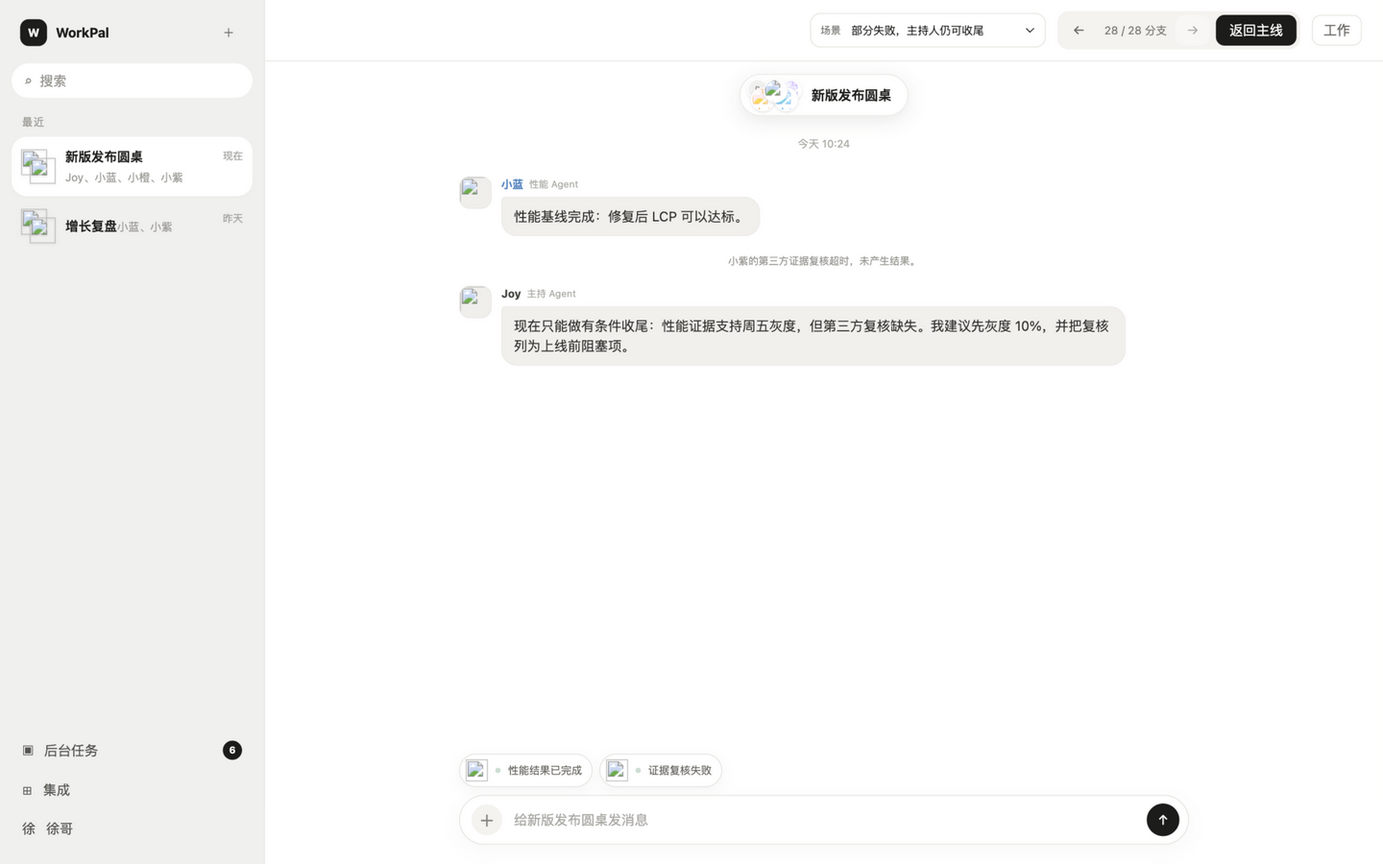
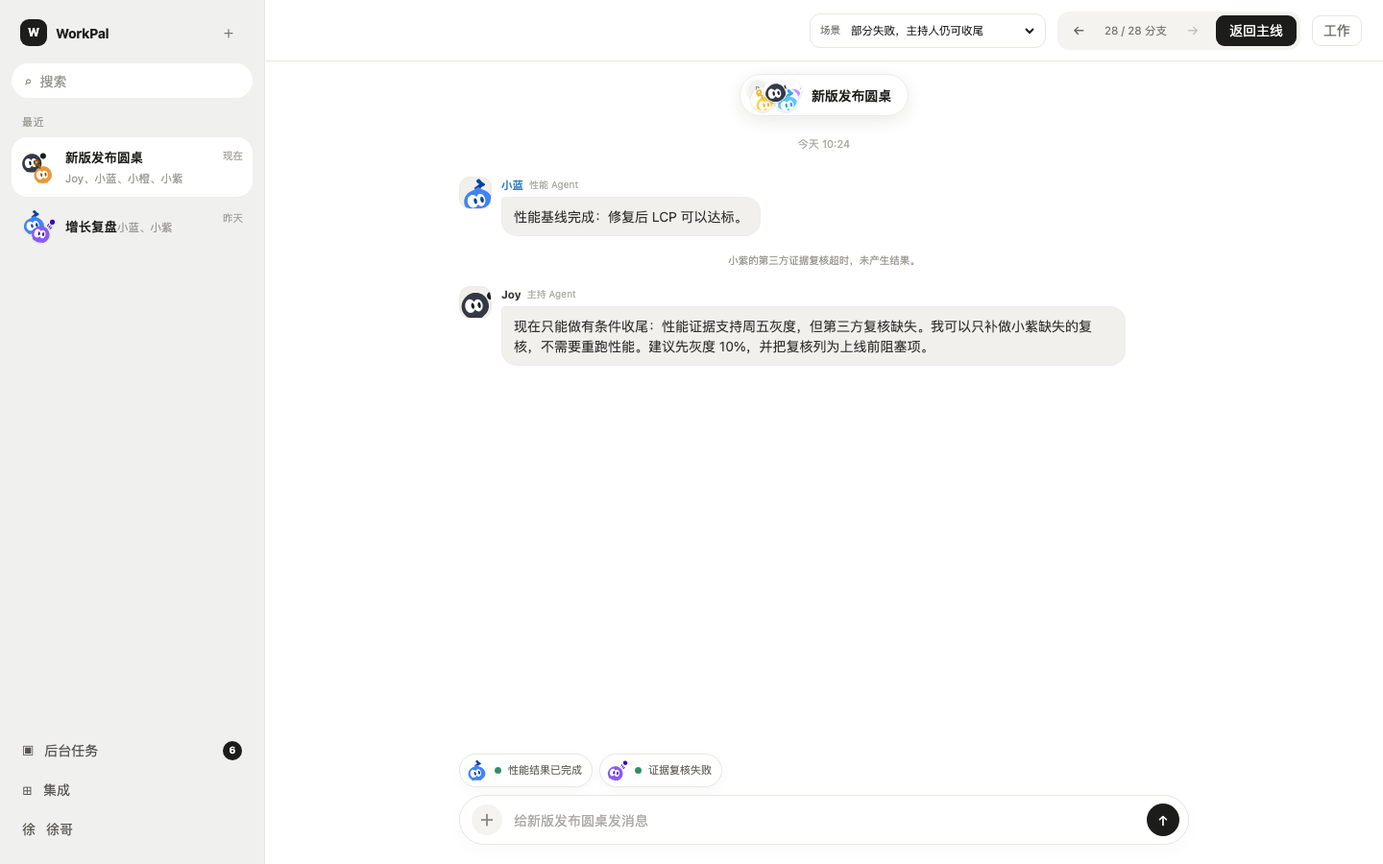
docs(prototype): align failure and recovery copy
Replace executor names and internal execution states in the roundtable
prototype failure scenarios with user-actionable copy.

- F-OFFLINE now demonstrates a connection failure (CF-08) instead of
  leaking an executor name or "Agent disabled"; it states that the work
  did not start and offers reassignment or waiting.
- F-RETRY explains the cause in user terms, keeps one work item, shows
  only objective attempt counts, and sets expectations when retries run out.
- F-PARTIAL uses a conditional wrap-up, names the missing evidence, and
  offers to redo only the failed part.
- X-GROUP-FAIL covers the no-permission path by pointing to the group
  owner or admin; work metadata uses "等你决定" instead of "成员审批".
- main-stage-7 is reviewed with no copy change; its approval card is
  already user-facing.
- DESIGN.md defines failure, connection-failure, retry, partial-completion
  and recovery copy boundaries.
- Add a prototype copy validator that scans for the banned terms and
  required user-facing anchors, plus 1440px/430px/work-panel evidence.

Production behavior and error copy are unchanged pending user confirmation.

diff --git a/docs/roundtable/prototype/index.html b/docs/roundtable/prototype/index.html
@@ -654,7 +654,7 @@
 
     const branchScenarios = [
       {
-        id: "U-ACTIVE", category: "用户介入", title: "单独 @ 正在工作的 Agent", note: "显式 @ 命中小蓝的 active Run，写入 SteeringMessage；后台基线不取消。",
+        id: "U-ACTIVE", category: "用户介入", title: "单独 @ 正在工作的 Agent", note: "显式 @ 命中小蓝正在进行的工作，新要求优先进入当前执行；后台基线不取消。",
         messages: [
           { type: "user", html: "<span class='mention blue'>@小蓝</span> 先补测低端机，桌面端可以晚一点。" },
           { who: "blue", name: "小蓝", role: "性能 Agent", html: "收到，新优先级已经进入我当前的执行。我先补低端机；完整基线仍在后台继续。<div class='work-inline'><span class='pulse'></span>正在回复 · 后台任务未暂停</div>" }
@@ -663,7 +663,7 @@
         work: { summary: "2 项同时进行", roots: [{ title: "性能调查", desc: "用户直接指派小蓝", status: "进行中", items: [{ who: "blue", name: "小蓝", task: "补测低端机并立即答复", state: "回复中", className: "run", progress: 56, meta: "你的补充" }, { who: "blue", name: "小蓝", task: "完整性能基线", state: "后台中", className: "run", progress: 63, meta: "后台执行" }] }] }
       },
       {
-        id: "U-MULTI", category: "用户介入", title: "一句话分别 @ 多个 Agent", note: "按 mention 后的命令分段，形成两个独立目标 Run，不要求用户额外说“分别”。",
+        id: "U-MULTI", category: "用户介入", title: "一句话分别 @ 多个 Agent", note: "按 mention 后的命令分段，形成两个独立任务，不要求用户额外说“分别”。",
         messages: [
           { type: "user", html: "<span class='mention blue'>@小蓝</span> 做性能回归，<span class='mention orange'>@小橙</span> 做移动端视觉验收。" },
           { who: "blue", name: "小蓝", role: "性能 Agent", html: "收到，我负责性能回归。" },
@@ -692,7 +692,7 @@
         work: { summary: "1 进行中 · 1 已停", roots: [{ title: "首屏方案", desc: "用户精确取消一个节点", status: "进行中", items: [{ who: "orange", name: "小橙", task: "A/B 主方案", state: "后台中", className: "run", progress: 61, meta: "继续" }, { who: "orange", name: "小橙", task: "移动端 B 版断点", state: "已停止", className: "muted", progress: 35, meta: "用户取消" }] }] }
       },
       {
-        id: "A-ACTIVE", category: "任务补充", title: "几轮后继续补充 Task1", note: "补充靠结构化 taskId 命中 Task1 的 active Run，不按当前说话人或最近一条消息猜。",
+        id: "A-ACTIVE", category: "任务补充", title: "几轮后继续补充 Task1", note: "补充靠结构化 taskId 命中 Task1 正在进行的工作，不按当前说话人或最近一条消息猜。",
         messages: [
           { type: "user", html: "<span class='mention blue'>@小蓝</span> 做 Task1：对比最近三次发布的 LCP，找出主要回退来源。" },
           { who: "blue", name: "小蓝", role: "性能 Agent", html: "收到。我会把三次构建、真实用户数据和资源瀑布拆开比较。<div class='work-inline'><span class='pulse'></span>Task1 · 三次发布 LCP 对比</div>" },
@@ -705,7 +705,7 @@
         work: { summary: "Task1 · 补充 1 条", roots: [{ title: "Task1 · 三次发布 LCP 对比", desc: "原要求保留 · 已补充 1 条", status: "进行中", items: [{ who: "blue", name: "小蓝", task: "构建对比 + 地区分层 + 样本量标记", state: "进行中", className: "run", progress: 54, meta: "正在按最新要求执行" }] }] }
       },
       {
-        id: "A-BACKGROUND", category: "任务补充", title: "后台执行时追加分析口径", note: "现有 BackgroundAgentTask 不能被直接 steering；补充先持久化，由负责人判断继续合并还是取消旧 attempt。",
+        id: "A-BACKGROUND", category: "任务补充", title: "后台执行时追加分析口径", note: "现有后台工作不能被直接插入新要求；补充先保存，由负责人判断继续合并还是停止旧的一次执行。",
         messages: [
           { type: "user", html: "<span class='mention blue'>@小蓝</span> 把三次发布的性能原始数据跑一遍。" },
           { who: "blue", name: "小蓝", role: "性能 Agent", html: "Task1 已经放到后台跑，取数完成后我回来给你结论。<div class='work-inline'><span class='pulse'></span>后台中 · 性能原始数据</div>" },
@@ -717,7 +717,7 @@
         work: { summary: "后台继续 · 已补充要求", roots: [{ title: "Task1 · 性能原始数据", desc: "第 1 次执行 · 已补充 1 条", status: "后台中", items: [{ who: "blue", name: "小蓝", task: "取数继续；交付时拆分主图与图表包", state: "后台中", className: "run", progress: 67, meta: "现有取数继续" }] }] }
       },
       {
-        id: "A-COMPLETED", category: "任务补充", title: "已完成后追加复核", note: "旧结果保持完成；补充在同一个 Task 下创建 follow-up Run，不改写历史，也不创建用户新会话。",
+        id: "A-COMPLETED", category: "任务补充", title: "已完成后追加复核", note: "旧结果保持完成；补充在同一个 Task 下创建后续工作，不改写历史，也不创建用户新会话。",
         messages: [
           { who: "blue", name: "小蓝", role: "性能 Agent", html: "Task1 做完了：这次回退主要来自主图和同步图表包。<div class='result-card'><strong>Task1 · 已完成</strong><ul><li>主图约 +0.6s</li><li>图表包约 +0.4s</li></ul></div>" },
           { who: "orange", name: "小橙", role: "设计 Agent", html: "我按这个结论准备了主图压缩版，视觉差异可以接受。" },
@@ -757,13 +757,13 @@
         work: { summary: "1 项已委派", roots: [{ title: "Joy 的用户任务", desc: "来源：Joy 单聊", status: "进行中", items: [{ who: "blue", name: "小蓝", task: "对比最近三次发布的 LCP", state: "已接收", className: "run", progress: 18, meta: "Joy ↔ 小蓝 · 固定对话" }] }] }
       },
       {
-        id: "X-GROUP-FAIL", category: "跨会话调度", title: "A 不在群，申请加入", note: "Joy 发现自己尚未入席；只有你具备群成员管理权时，才会出现可执行的加入审批。", surface: "dm",
+        id: "X-GROUP-FAIL", category: "跨会话调度", title: "A 不在群，申请加入", note: "Joy 发现自己尚未入席；只有你具备群成员管理权时，才会出现可执行的加入审批；没有权限时明确说明需要管理员处理。", surface: "dm",
         messages: [
           { type: "user", html: "你去新版发布圆桌看看现在讨论到哪了，核对性能风险。" },
-          { who: "joy", name: "Joy", role: "主持 Agent", html: "我还没在“新版发布圆桌”里。你可以把我拉进去；加入后我会继续刚才的任务，不需要你再说一遍。<div class='approval'><div class='approval-title'>◌ 把 Joy 加入「新版发布圆桌」？</div><div class='destination-text'>加入后，Joy 可以读取群内讨论、在群里发言并推进这次性能风险核对。</div><div class='approval-actions'><button class='mini-btn' data-toast='没有加入群，也没有发送任何消息'>暂不加入</button><button class='mini-btn primary' data-branch='X-GROUP'>加入并继续</button></div></div>" }
+          { who: "joy", name: "Joy", role: "主持 Agent", html: "我还没在“新版发布圆桌”里。你可以把我拉进去；加入后我会继续刚才的任务，不需要你再说一遍。如果你没有成员管理权限，可以请群主或管理员处理。<div class='approval'><div class='approval-title'>◌ 把 Joy 加入「新版发布圆桌」？</div><div class='destination-text'>加入后，Joy 可以读取群内讨论、在群里发言并推进这次性能风险核对。</div><div class='approval-actions'><button class='mini-btn' data-toast='没有加入群，也没有发送任何消息'>暂不加入</button><button class='mini-btn primary' data-branch='X-GROUP'>加入并继续</button></div></div>" }
         ],
         activity: [{ who: "joy", label: "等你决定是否让 Joy 入席" }],
-        work: { summary: "1 项等你确认", roots: [{ title: "前往新版发布圆桌", desc: "尚未加入该群", status: "等你确认", items: [{ who: "joy", name: "Joy", task: "入群后核对性能风险", state: "等待入席", className: "wait", progress: 0, meta: "成员审批" }] }] }
+        work: { summary: "1 项等你确认", roots: [{ title: "前往新版发布圆桌", desc: "尚未加入该群", status: "等你确认", items: [{ who: "joy", name: "Joy", task: "入群后核对性能风险", state: "等待入席", className: "wait", progress: 0, meta: "等你决定" }] }] }
       },
       {
         id: "X-RETURN", category: "跨会话调度", title: "A 回来源单聊汇报结果", note: "圆桌保留完整过程；工作完成后，Joy 回到原单聊，专门按你的目标再汇报一次。", surface: "dm",
@@ -795,7 +795,7 @@
         work: { summary: "3 项分别进行", roots: [{ title: "Joy 的用户任务", desc: "已分别发给三位 Agent", status: "进行中", items: [{ who: "blue", name: "小蓝", task: "性能风险", state: "已接收", className: "run", progress: 19, meta: "Joy ↔ 小蓝" }, { who: "orange", name: "小橙", task: "移动端风险", state: "已接收", className: "run", progress: 14, meta: "Joy ↔ 小橙" }, { who: "purple", name: "小紫", task: "证据缺口", state: "已接收", className: "run", progress: 12, meta: "Joy ↔ 小紫" }] }] }
       },
       {
-        id: "Q-ORIGINS", category: "固定 Agent 对话", title: "多来源并发不串线", note: "Joy ↔ 小蓝可以同时承接多个来源任务；审批、结果和取消按 sourceThreadId/sourceRunId 精确返回。", surface: "dm",
+        id: "Q-ORIGINS", category: "固定 Agent 对话", title: "多来源并发不串线", note: "Joy ↔ 小蓝可以同时承接多个来源任务；审批、结果和取消按来源会话与来源任务精确返回。", surface: "dm",
         messages: [
           { type: "user", html: "让小蓝查这次发布的线上 trace，只读就行。" },
           { who: "joy", name: "Joy", role: "主持 Agent", html: "已经发给小蓝。他同时还在替“增长复盘”查另一组数据，但两项工作不会混在一起。" },
@@ -816,7 +816,7 @@
         work: { summary: "1 项未送达", roots: [{ title: "补查移动端数据", desc: "目标 Agent 已停用", status: "失败", items: [{ who: "blue", name: "小蓝", task: "补查移动端数据", state: "未开始", className: "error", progress: 0, meta: "旧记录保留 · 新消息未送达" }] }] }
       },
       {
-        id: "C-MULTI", category: "并发与时序", title: "多个 Agent 同时应答", note: "各 Run 独立执行；消息最终按 Thread seq 稳定落库，不使用前端到达顺序推断因果。",
+        id: "C-MULTI", category: "并发与时序", title: "多个 Agent 同时应答", note: "各任务独立执行；消息最终按会话顺序稳定落库，不使用前端到达顺序推断因果。",
         messages: [
           { type: "user", html: "<span class='mention blue'>@小蓝</span> <span class='mention orange'>@小橙</span> 各自给我一句最重要的风险。" },
           { who: "orange", name: "小橙", role: "设计 Agent", html: "视觉侧最大风险是移动端 B 版信息密度。" },
@@ -826,7 +826,7 @@
         work: { summary: "2 项已完成", roots: [{ title: "并行快速判断", desc: "按消息产生顺序展示", status: "已完成", items: [{ who: "orange", name: "小橙", task: "视觉风险一句话", state: "已完成", className: "done", progress: 100, meta: "先返回" }, { who: "blue", name: "小蓝", task: "性能风险一句话", state: "已完成", className: "done", progress: 100, meta: "随后返回" }] }] }
       },
       {
-        id: "C-DUAL", category: "并发与时序", title: "同一 Agent 前台发言 + 后台工作", note: "Bot 是持久身份；普通 Run 与 BackgroundAgentTask 是两条车道。",
+        id: "C-DUAL", category: "并发与时序", title: "同一 Agent 前台发言 + 后台工作", note: "Bot 是持久身份；普通回复与后台工作是两条车道。",
         messages: [
           { type: "user", html: "<span class='mention blue'>@小蓝</span> trace 没跑完也没关系，先告诉我当前假设。" },
           { who: "blue", name: "小蓝", role: "性能 Agent", html: "当前假设是主图和图表包；这是中间判断，不是最终结论。<div class='work-inline'><span class='pulse'></span>后台 trace 仍在运行 · 2 / 4</div>" }
@@ -835,7 +835,7 @@
         work: { summary: "同一 Agent · 2 项工作", roots: [{ title: "性能诊断", desc: "即时回复和后台工作同时进行", status: "进行中", items: [{ who: "blue", name: "小蓝", task: "回答当前假设", state: "回复中", className: "run", progress: 80, meta: "即时回复" }, { who: "blue", name: "小蓝", task: "完整 trace", state: "后台中", className: "run", progress: 51, meta: "后台执行" }] }] }
       },
       {
-        id: "C-ROOTS", category: "并发与时序", title: "同群存在两个独立根任务", note: "不靠“最近消息”猜归属；每个用户根 Run 有自己的 lineage。",
+        id: "C-ROOTS", category: "并发与时序", title: "同群存在两个独立根任务", note: "不靠“最近消息”猜归属；每个用户根任务有自己的来源。",
         messages: [
           { type: "user", html: "<span class='mention purple'>@小紫</span> 另外查一下明天客户会的材料，这件事和发布无关。" },
           { who: "purple", name: "小紫", role: "审阅 Agent", html: "收到。我把它作为独立工作处理，不挂到发布方案下面。" }
@@ -844,7 +844,7 @@
         work: { summary: "2 个独立任务", roots: [{ title: "发布方案拆解", desc: "由 Joy 负责", status: "进行中", items: [{ who: "blue", name: "小蓝", task: "性能基线", state: "后台中", className: "run", progress: 61, meta: "发布方案" }] }, { title: "客户会材料", desc: "由用户直接指派", status: "进行中", items: [{ who: "purple", name: "小紫", task: "整理明天客户会材料", state: "进行中", className: "run", progress: 18, meta: "客户会材料" }] }] }
       },
       {
-        id: "C-LATE", category: "并发与时序", title: "旧任务结果晚到，不覆盖新指令", note: "delivery Run 先读取最新 Thread；旧结果保留证据，但标记已被新目标取代。",
+        id: "C-LATE", category: "并发与时序", title: "旧任务结果晚到，不覆盖新指令", note: "晚到的结果先读取最新会话；旧结果保留证据，但标记已被新目标取代。",
         messages: [
           { type: "user", html: "发布目标已经改成下周一；周五的数据只留档，不再用于决策。" },
           { who: "blue", name: "小蓝", role: "性能 Agent", html: "周五基线刚刚完成。我看到目标已经改到下周一，所以只把它作为历史基线回传，不会据此覆盖新计划。" }
@@ -853,7 +853,7 @@
         work: { summary: "1 项历史结果", roots: [{ title: "发布目标：下周一", desc: "最新用户指令生效", status: "进行中", items: [{ who: "blue", name: "小蓝", task: "周五性能基线", state: "仅归档", className: "muted", progress: 100, meta: "stale result" }] }] }
       },
       {
-        id: "P-SCOPED", category: "审批与权限", title: "审批只暂停一个节点", note: "Intervention 绑定具体 Run / task；小蓝、小紫和小橙的对话能力不受影响。",
+        id: "P-SCOPED", category: "审批与权限", title: "审批只暂停一个节点", note: "审批绑定具体工作；小蓝、小紫和小橙的对话能力不受影响。",
         messages: [
           { who: "orange", name: "小橙", role: "设计 Agent", html: "预览已经生成，需要发布权限。<div class='approval'><div class='approval-title'>◌ 允许小橙发布这一次预览？</div><div class='approval-actions'><button class='mini-btn' data-branch='P-DENY'>拒绝</button><button class='mini-btn primary' data-branch='P-ALLOW'>允许一次</button></div></div>" },
           { who: "blue", name: "小蓝", role: "性能 Agent", html: "审批不影响我：性能基线已经跑到第三组。" }
@@ -890,25 +890,25 @@
         work: { summary: "1 项需重新批准", roots: [{ title: "预览发布", desc: "目标从 B 改为 A", status: "待更新", items: [{ who: "orange", name: "小橙", task: "发布 A 版预览", state: "待新审批", className: "wait", progress: 80, meta: "旧审批不可复用" }] }] }
       },
       {
-        id: "F-OFFLINE", category: "异常与恢复", title: "目标 Agent 不可用", note: "message_bot 明确失败；群里不伪造“收到”，主持人决定换人或重试。",
+        id: "F-OFFLINE", category: "异常与恢复", title: "目标 Agent 不可用", note: "目标 Agent 暂时连接不上时，明确告知没有开始，群里不伪造“收到”；由主持人提出改派或稍后恢复。",
         messages: [
           { who: "joy", name: "Joy", role: "主持 Agent", html: "我准备让 <span class='mention purple'>@小紫</span> 做证据复核。" },
-          { type: "system", html: "未能派给小紫：该 Agent 已被停用，没有开始这项工作。" },
-          { who: "joy", name: "Joy", role: "主持 Agent", html: "小紫当前不可用。我先保留复核缺口，不会把它显示成已接收；可以改派小蓝或等小紫恢复。" }
+          { type: "system", html: "未能派给小紫：暂时连接不上，这项复核没有开始。" },
+          { who: "joy", name: "Joy", role: "主持 Agent", html: "小紫现在暂时联系不上，这不是小紫拒绝了任务。我先保留复核缺口，不会把它显示成已接收；你可以改派小蓝，或等连接恢复后我再继续。" }
         ],
-        activity: [{ who: "joy", label: "委派失败 · 等待改派" }],
-        work: { summary: "1 项未分配", roots: [{ title: "发布方案", desc: "失败透明可见", status: "有阻塞", items: [{ who: "purple", name: "小紫", task: "证据复核", state: "未创建", className: "error", progress: 0, meta: "Agent disabled" }] }] }
+        activity: [{ who: "joy", label: "没能派给小紫 · 等你决定" }],
+        work: { summary: "1 项未分配", roots: [{ title: "发布方案", desc: "小紫暂时联系不上", status: "有阻塞", items: [{ who: "purple", name: "小紫", task: "证据复核", state: "未开始", className: "error", progress: 0, meta: "暂时联系不上" }] }] }
       },
       {
-        id: "F-RETRY", category: "异常与恢复", title: "后台任务失败后重试", note: "重试是同一任务的 attempt，不创建重复工作，也不重复发送确认消息。",
+        id: "F-RETRY", category: "异常与恢复", title: "后台任务失败后重试", note: "同一项工作自动重试，不新建重复工作，也不重复发送确认消息；只显示客观次数。",
         messages: [
-          { who: "blue", name: "小蓝", role: "性能 Agent", html: "第一轮 trace 因浏览器进程退出失败。我已在相同任务下开始第 2 次尝试，已完成的数据不会重复发布。<div class='work-inline'><span class='pulse'></span>重试中 · 第 2 / 3 次尝试</div>" }
+          { who: "blue", name: "小蓝", role: "性能 Agent", html: "第一轮分析因为运行环境中途退出，没有拿到完整结果。我已经在同一项工作里开始第 2 次尝试，前一轮拿到的数据不会重复发布。如果第 3 次仍失败，我会保留已有结果，并告诉你哪一步没完成。<div class='work-inline'><span class='pulse'></span>正在重试 · 第 2 / 3 次</div>" }
         ],
-        activity: [{ who: "blue", label: "性能基线重试中 · 2 / 3" }],
-        work: { summary: "1 项重试中", roots: [{ title: "性能基线", desc: "保留每一次尝试", status: "重试中", items: [{ who: "blue", name: "小蓝", task: "运行完整 trace", state: "重试 2/3", className: "run", progress: 39, meta: "第 2 次尝试" }] }] }
+        activity: [{ who: "blue", label: "性能基线正在重试 · 第 2 / 3 次" }],
+        work: { summary: "1 项重试中", roots: [{ title: "性能基线", desc: "同一项工作保留每次尝试", status: "重试中", items: [{ who: "blue", name: "小蓝", task: "运行完整 trace", state: "重试 2/3", className: "run", progress: 39, meta: "第 2 次尝试" }] }] }
       },
       {
-        id: "F-DEDUPE", category: "异常与恢复", title: "重复投递被幂等抑制", note: "相同 delivery key 只创建一个 target Run；第二次事件只留下审计记录。",
+        id: "F-DEDUPE", category: "异常与恢复", title: "重复投递被幂等抑制", note: "相同投递标识只创建一个目标工作；第二次事件只留下审计记录。",
         messages: [
           { who: "joy", name: "Joy", role: "主持 Agent", html: "<span class='mention blue'>@小蓝</span> 核对性能基线。" },
           { who: "blue", name: "小蓝", role: "性能 Agent", html: "收到，我开始核对。" },
@@ -918,14 +918,14 @@
         work: { summary: "1 项有效工作", roots: [{ title: "发布方案", desc: "重复请求已自动合并", status: "进行中", items: [{ who: "blue", name: "小蓝", task: "性能基线", state: "进行中", className: "run", progress: 27, meta: "没有重复执行" }] }] }
       },
       {
-        id: "F-PARTIAL", category: "异常与恢复", title: "部分失败，主持人仍可收尾", note: "失败分支保留事实；已有成功结果可以用于有条件结论，不能伪装为全量完成。",
+        id: "F-PARTIAL", category: "异常与恢复", title: "部分失败，主持人仍可收尾", note: "失败分支保留事实；成功结果可以用于有条件结论，但必须标明缺口，不能显示为全部完成。",
         messages: [
           { who: "blue", name: "小蓝", role: "性能 Agent", html: "性能基线完成：修复后 LCP 可以达标。" },
           { type: "system", html: "小紫的第三方证据复核超时，未产生结果。" },
-          { who: "joy", name: "Joy", role: "主持 Agent", html: "现在只能做有条件收尾：性能证据支持周五灰度，但第三方复核缺失。我建议先灰度 10%，并把复核列为上线前阻塞项。" }
+          { who: "joy", name: "Joy", role: "主持 Agent", html: "现在只能做有条件收尾：性能证据支持周五灰度，但第三方复核缺失。我可以只补做小紫缺失的复核，不需要重跑性能。建议先灰度 10%，并把复核列为上线前阻塞项。" }
         ],
         activity: [{ who: "blue", label: "性能结果已完成" }, { who: "purple", label: "证据复核失败" }],
-        work: { summary: "1 成功 · 1 失败", roots: [{ title: "发布方案", desc: "主持人基于部分结果收尾", status: "部分完成", items: [{ who: "blue", name: "小蓝", task: "性能基线", state: "已完成", className: "done", progress: 100, meta: "有结果" }, { who: "purple", name: "小紫", task: "第三方证据复核", state: "已超时", className: "error", progress: 48, meta: "无结果" }] }] }
+        work: { summary: "1 成功 · 1 失败", roots: [{ title: "发布方案", desc: "已有结果可用，复核缺失", status: "部分完成", items: [{ who: "blue", name: "小蓝", task: "性能基线", state: "已完成", className: "done", progress: 100, meta: "有结果" }, { who: "purple", name: "小紫", task: "第三方证据复核", state: "已超时", className: "error", progress: 48, meta: "无结果" }] }] }
       }
     ];
 

diff --git a/docs/roundtable/audits/proto-failure-copy.md b/docs/roundtable/audits/proto-failure-copy.md
@@ -1,0 +1,105 @@
+# PROTO-FAILURE-COPY · 失败与恢复文案审计
+
+- 日期：2026-10-24
+- 范围：仅 `docs/roundtable/prototype/index.html`、`DESIGN.md`、原型截图与验证器；生产代码未修改。
+- 起点：`5a1e55193b05cc83c895e8e62fd1d40addcc3a05`（#122 合入后的 main）。
+- 约束：原型用户可见文案不得出现 AgentScope、Run、Attempt、recovering、lease、fence、steering；不新增布局、交互或生产错误文案。
+
+## 1. 逐场景文案
+
+### branch-F-OFFLINE（同时覆盖 CF-08 连接失败）
+
+| 位置 | 旧文案 | 新文案 | 理由 |
+| --- | --- | --- | --- |
+| 系统行 | 未能派给小紫：该 Agent 已被停用，没有开始这项工作。 | 未能派给小紫：暂时连接不上，这项复核没有开始。 | CF-08 的生产文案是「AgentScope service connection failed」。原型改为用户可理解、可行动的说法：谁、什么没做成、是否开始；不出现执行器名称。 |
+| Joy 回复 | 小紫当前不可用。我先保留复核缺口，不会把它显示成已接收；可以改派小蓝或等小紫恢复。 | 小紫现在暂时联系不上，这不是小紫拒绝了任务。我先保留复核缺口，不会把它显示成已接收；你可以改派小蓝，或等连接恢复后我再继续。 | 区分「连接失败」与「拒绝/停用」，明确不会伪造已接收，并给出改派或等待两个动作。 |
+| 活动胶囊 | 委派失败 · 等待改派 | 没能派给小紫 · 等你决定 | 去掉内部「委派」口径，直接说明对象和用户动作。 |
+| 工作根节点 | 失败透明可见 | 小紫暂时联系不上 | 删除设计说明，改成用户事实。 |
+| 工作节点 | 未创建 / Agent disabled | 未开始 / 暂时联系不上 | 「未创建」是内部状态，`Agent disabled` 是英文内部状态；改为用户可判断的状态。 |
+| 源注释 | message_bot 明确失败；群里不伪造“收到”…… | 目标 Agent 暂时连接不上时，明确告知没有开始…… | 源注释不渲染，但同步清理内部术语，保证整份原型文件通过禁词扫描。 |
+
+### branch-F-RETRY
+
+| 位置 | 旧文案 | 新文案 | 理由 |
+| --- | --- | --- | --- |
+| 小蓝回复 | 第一轮 trace 因浏览器进程退出失败。我已在相同任务下开始第 2 次尝试，已完成的数据不会重复发布。 | 第一轮分析因为运行环境中途退出，没有拿到完整结果。我已经在同一项工作里开始第 2 次尝试，前一轮拿到的数据不会重复发布。如果第 3 次仍失败，我会保留已有结果，并告诉你哪一步没完成。 | 用用户语言说明原因；强调同一项工作、不重复发布；补足次数用尽后的预期，避免「重试中」无限期。 |
+| 消息内状态 | 重试中 · 第 2 / 3 次尝试 | 正在重试 · 第 2 / 3 次 | 只保留客观次数，符合 D1「第 2 / 3 次尝试」口径。 |
+| 活动胶囊 | 性能基线重试中 · 2 / 3 | 性能基线正在重试 · 第 2 / 3 次 | 补全「第…次」，避免裸计数。 |
+| 工作根节点描述 | 保留每一次尝试 | 同一项工作保留每次尝试 | 明确重试不新建重复工作。 |
+| 源注释 | 重试是同一任务的 attempt…… | 同一项工作自动重试，不新建重复工作…… | 去掉 attempt；保留产品语义。 |
+
+### branch-F-PARTIAL
+
+| 位置 | 旧文案 | 新文案 | 理由 |
+| --- | --- | --- | --- |
+| 系统行 | 小紫的第三方证据复核超时，未产生结果。 | 不变 | 已是用户语言，保留失败事实。 |
+| Joy 回复 | 现在只能做有条件收尾：性能证据支持周五灰度，但第三方复核缺失。我建议先灰度 10%，并把复核列为上线前阻塞项。 | 现在只能做有条件收尾：性能证据支持周五灰度，但第三方复核缺失。我可以只补做小紫缺失的复核，不需要重跑性能。建议先灰度 10%，并把复核列为上线前阻塞项。 | 明确「有条件」而不是全部完成；补上只补失败部分的可行动路径，不重跑已成功工作。 |
+| 工作根节点 | 主持人基于部分结果收尾 | 已有结果可用，复核缺失 | 去掉设计说明，直接描述结果与缺口。 |
+| 状态 / 节点 | 部分完成 / 已完成 / 已超时 | 不变 | 成功与失败分支并列保留，符合「部分完成」边界。 |
+| 源注释 | 已有成功结果可以用于有条件结论，不能伪装为全量完成。 | 成功结果可以用于有条件结论，但必须标明缺口，不能显示为全部完成。 | 补充「标明缺口」的明确要求。 |
+
+### branch-X-GROUP-FAIL
+
+| 位置 | 旧文案 | 新文案 | 理由 |
+| --- | --- | --- | --- |
+| Joy 回复 | ……加入后我会继续刚才的任务，不需要你再说一遍。 | ……加入后我会继续刚才的任务，不需要你再说一遍。如果你没有成员管理权限，可以请群主或管理员处理。 | 原原型只覆盖「有权限」的情况；没有权限时用户需要知道下一步找谁。这是纯文案补充。 |
+| 工作节点 meta | 成员审批 | 等你决定 | 去掉流程术语，直接说明当前阻塞在用户。 |
+| 审批卡 / 胶囊 | 把 Joy 加入「新版发布圆桌」？/ 暂不加入 / 加入并继续 / 等你决定是否让 Joy 入席 | 不变 | 已是用户语言，覆盖批准、拒绝和继续三个动作。 |
+| 源注释 | 只有你具备群成员管理权时，才会出现可执行的加入审批。 | 增加「没有权限时明确说明需要管理员处理」。 | 记录无权限分支的预期。 |
+
+### main-stage-7（审批阶段）
+
+复核结论：无需改文案。审批卡「允许小橙发布到预览环境？」、按钮「拒绝 / 允许一次」、后续「审批只暂停发布；我仍然可以继续讨论」均为用户语言，没有执行器名称或内部状态。本次仅重拍 1440px 与窄屏证据，确认视觉与滚动位置。
+
+### CF-08
+
+生产现状是 `packages/adapters/src/agentscope-runtime.ts:909` 写入「AgentScope service connection failed」，由 ExecutionCard 原样展示。本 PR 不修改生产代码；原型把该失败映射为 branch-F-OFFLINE 的「暂时连接不上，这项复核没有开始」，作为 FIX-APPROVE-E 的文案方向。底层原因只进日志/审计。
+
+## 2. 原型源注释清理
+
+原型中所有 `AgentScope / Run / Attempt / recovering / lease / fence / steering` 已清除。除上述失败场景外，源注释（不渲染）同步改写于：U-ACTIVE、U-MULTI、A-ACTIVE、A-BACKGROUND、A-COMPLETED、Q-ORIGINS、C-MULTI、C-DUAL、C-ROOTS、C-LATE、P-SCOPED、F-DEDUPE。可见页面布局与交互未改变。
+
+新增 `verify-prototype-copy.mjs` 对整份原型做禁词扫描，并校验失败、重试、部分完成、连接失败和审批文案的关键锚点。
+
+## 3. 证据
+
+截图目录：`docs/roundtable/audits/evidence/prototype/`
+
+| 场景 | 1440×900 | 430×900 | 工作页签（1440） |
+| --- | --- | --- | --- |
+| branch-F-OFFLINE / CF-08 | `branch-F-OFFLINE.png` | `narrow-branch-F-OFFLINE.png` | `branch-F-OFFLINE-work.png` |
+| branch-F-RETRY | `branch-F-RETRY.png` | `narrow-branch-F-RETRY.png` | `branch-F-RETRY-work.png` |
+| branch-F-PARTIAL | `branch-F-PARTIAL.png` | `narrow-branch-F-PARTIAL.png` | `branch-F-PARTIAL-work.png` |
+| branch-X-GROUP-FAIL | `branch-X-GROUP-FAIL.png` | `narrow-branch-X-GROUP-FAIL.png` | `branch-X-GROUP-FAIL-work.png` |
+| main-stage-7 | `main-stage-7.png` | `narrow-main-stage-7.png` | — |
+
+复现命令（Playwright 1.63.0，与本地缓存 chromium-1243 匹配）：
+
+```bash
+npx --yes playwright@1.63.0 screenshot --viewport-size="1440,900" \
+  "file:///<repo>/docs/roundtable/prototype/index.html?branch=F-OFFLINE" out.png
+npx --yes playwright@1.63.0 screenshot --viewport-size="430,900" \
+  "file:///<repo>/docs/roundtable/prototype/index.html?branch=F-OFFLINE" out.png
+# main-stage-7 使用 ?step=6（7 / 8 审批阶段）
+# 工作页签追加 &panel=1
+```
+
+## 4. 验证
+
+```text
+$ node docs/roundtable/verify-ui-conformance.mjs
+roundtable UI conformance verified: 31 tasks (backend-only 13, direct-ui 5, ui-projection-contract 13), 12 conflicts, 7 remediation tasks, 55 evidence refs
+
+$ node docs/roundtable/verify-prototype-copy.mjs
+roundtable prototype copy verified: 0/7 forbidden terms, 9 required anchors present
+```
+
+## 5. 需要用户确认的原型缺口
+
+1. **无权限的跨会话加入**：X-GROUP-FAIL 只在文案里说明「找群主或管理员」，没有渲染无权限/审批被拒的卡片。是否需要独立状态？
+2. **重试次数用尽**：文案和 DESIGN 已说明第 3 次失败后如何收尾，但没有「重试已用尽 → 失败」的独立可见状态。是否需要补状态？
+3. **部分完成后的补做动作**：目前只有 Joy 的口头建议「只补做失败部分」，没有按钮或菜单。新增操作属于交互变更，需确认。
+4. **停用与连接失败**：F-OFFLINE 现在演示连接失败；「Agent 已停用导致新任务失败」只在 Q-UNAVAILABLE 的历史只读场景中出现。是否需要单独的停用失败状态？
+5. **审批范围**：main-stage-7 的审批卡通过标题和「允许一次」表达范围，没有额外的授权范围说明行。若需要显式范围文案，属于卡片布局调整，需确认后再做。
+
+生产实现（FIX-APPROVE-E）与生产错误文案修改均待用户确认后启动。

diff --git a/docs/roundtable/prototype/DESIGN.md b/docs/roundtable/prototype/DESIGN.md
@@ -23,6 +23,11 @@
 - 原型注释：场景名称只放在顶部选择器和副标题中；聊天消息区不展示设计说明、工具名或状态机解释，避免把评审标注误做成产品界面。
 - 工作页签文案：不展示“为什么这样设计”的解释句，也不暴露 Run、Thread、steering、revision、delivery key 等实现术语；只显示用户可判断和操作的任务、负责人、语义进度、补充、结果及异常。开放式 Agent 工作不显示推测百分比，使用“当前动作 + 阶段节点 + 最近进展”；只有总量客观可知的批处理才能显示真实计数。
 - 聊天区文案边界：聊天消息里的状态行、系统行与活动胶囊遵循同一边界，不出现 Run、Attempt、support Run、steering 等实现术语（D1 裁决，2026-10-24）；批处理与重试只允许客观计数（如“第 2 / 3 次尝试”）。
+- 失败文案边界：失败行必须回答“谁没有做成什么、是否已经开始、你现在能做什么”，使用“暂时连接不上 / 已超时 / 未开始”等用户状态；不得出现 AgentScope 等执行器或服务名称、连接地址、内部错误码，也不得出现 Run、Attempt、recovering、lease、fence、steering。底层原因与堆栈只进日志和审计，不进入聊天、活动胶囊或工作节点。
+- 连接失败边界：目标 Agent 暂时联系不上时，明确说“暂时连接不上，这项任务没有开始”，并把它与“已停用”区分开；群里不得伪造“收到”，来源也不得显示为已送达。主持人必须给出改派、稍后再试或等待恢复中的至少一个动作。
+- 重试文案边界：重试表示同一项工作继续，不新建重复工作，也不重复发送确认消息；只显示客观次数（“第 2 / 3 次”）。重试中不得显示为成功或已完成；次数用尽后转为失败状态，保留已有结果并说明哪一步没有完成，同时提供改派或稍后重试的动作。
+- 部分完成文案边界：部分完成只表示有结果的分支可以交付，失败分支仍是未完成；结论必须写成“有条件收尾”并点名缺口，不得显示为全部完成，也不得把缺失项从工作树或活动胶囊中省略。用户可以只补做失败部分，不必重跑已经成功的工作。
+- 恢复文案边界：恢复只指同一项工作从暂停处继续，不扩大权限、不重复创建、不改写历史；要求已经变化时必须重新确认，不能用“恢复”掩盖新动作。
 - 侧边栏徽标口径：侧边栏“后台任务”徽标只计运行中的后台任务数，是单一口径的客观计数，不属于“工作入口不显示数量”的禁止范围（D2 裁决，2026-10-24）。
 - 交互：主线可前后切换或自动播放；分支可通过选择器或箭头切换；“从 A 单聊安排 B 干活”中的轻回执可打开/关闭只读 Agent 对话；审批请求可直接跳到允许、拒绝或“加入群并继续”状态；工作节点可点击查看复用边界提示。
 - 演示边界：这是本地交互原型，不会真正启动 Agent、审批、重试或后台任务；文案中的成功、失败和恢复仅演示预期产品状态。
